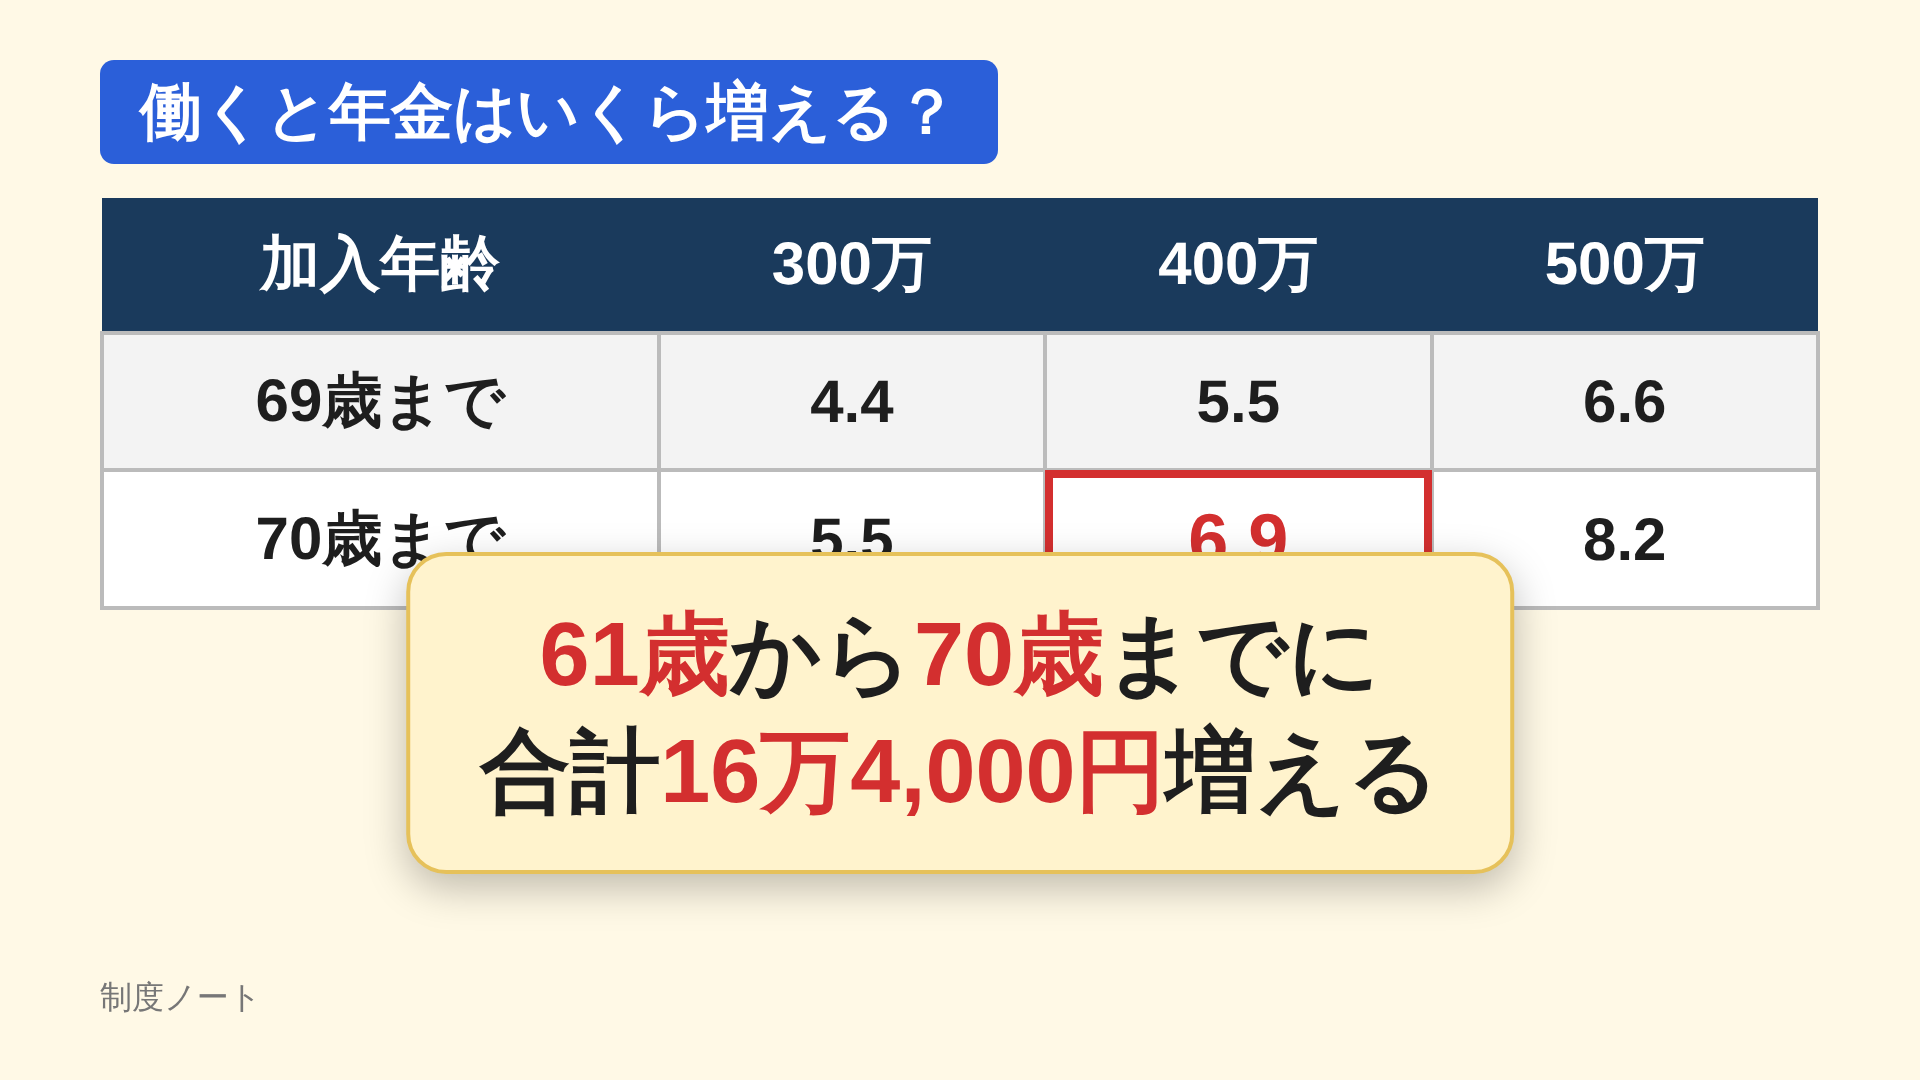
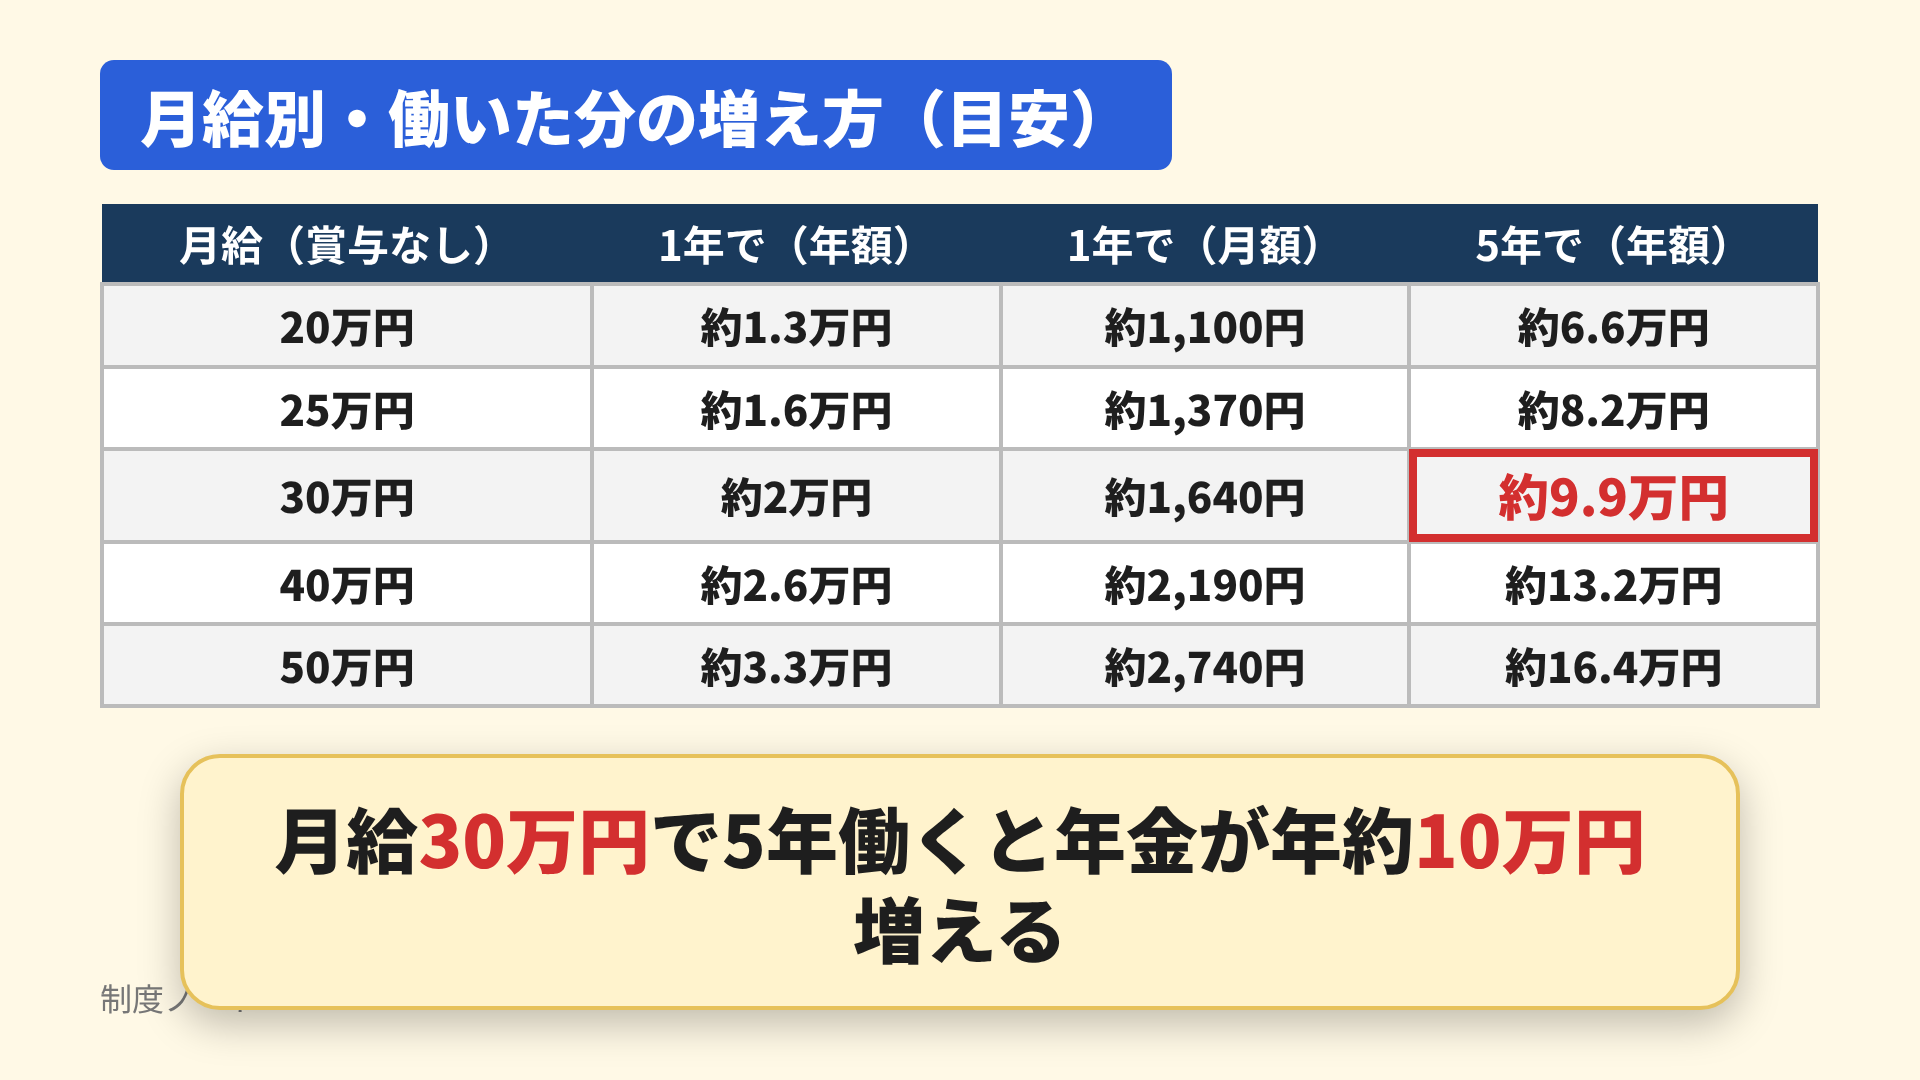
Slides: adaptive table font by density, bottom-anchored wrapping callout, dedicated 1280x720 thumbnail template with auto-shrink; prompt limits for tables/thumbnail
Claude-Session: https://claude.ai/code/session_01CZd61jbeb2KL1M1gyQhmMR

diff --git a/templates/thumb.html b/templates/thumb.html
@@ -1,0 +1,27 @@
+<!doctype html>
+<html lang="ja"><head><meta charset="utf-8">
+<style>
+  :root{--red:#d32f2f;--yel:#ffd54f;--blue:#2b5fd9}
+  *{box-sizing:border-box;margin:0}
+  body{width:1280px;height:720px;overflow:hidden;font-family:"Noto Sans CJK JP","Noto Sans JP",sans-serif;background:linear-gradient(135deg,#ffe6ea,#fff6d6)}
+  .wrap{width:100%;height:100%;padding:24px;display:flex;gap:18px}
+  .ribbon{width:150px;background:var(--red);color:#fff;border-radius:16px;display:flex;align-items:center;justify-content:center;font-size:92px;font-weight:900;writing-mode:vertical-rl;text-orientation:upright;letter-spacing:4px;white-space:nowrap;box-shadow:0 8px 0 #8e1d1d}
+  .main{flex:1;display:flex;flex-direction:column;border:10px solid #222;border-radius:22px;overflow:hidden;background:#fff}
+  .t{background:#111;color:#fff;font-size:82px;font-weight:900;text-align:center;padding:4px 10px;white-space:nowrap}
+  .t em{font-style:normal;color:var(--yel)}
+  .cmp{flex:1;display:flex}
+  .cmp>div{flex:1;display:flex;flex-direction:column;justify-content:flex-end;background:#eef1f5}
+  .cmp .note{flex:1;display:flex;align-items:center;justify-content:center;font-size:58px;font-weight:800;color:#333;text-align:center;padding:10px 16px;line-height:1.15}
+  .cmp .lab{font-size:70px;font-weight:900;color:#fff;text-align:center;padding:2px 0;white-space:nowrap}
+  .cmp .ver{font-size:96px;font-weight:900;background:#fff;text-align:center;padding:0 0 6px;white-space:nowrap;line-height:1.1}
+  .l .lab{background:var(--blue)} .l .ver{color:var(--blue)} .l{border-right:6px solid #222}
+  .r .lab{background:var(--red)}  .r .ver{color:var(--red)}
+</style></head>
+<body><div class="wrap">
+  <div class="ribbon">{{RIBBON}}</div>
+  <div class="main"><div class="t">{{TITLE}}</div>
+    <div class="cmp">
+      <div class="l"><div class="note">{{LNOTE}}</div><div class="lab">{{LLAB}}</div><div class="ver">{{LVER}}</div></div>
+      <div class="r"><div class="note">{{RNOTE}}</div><div class="lab">{{RLAB}}</div><div class="ver">{{RVER}}</div></div>
+    </div></div>
+</div></body></html>

diff --git a/templates/slide.html b/templates/slide.html
@@ -12,12 +12,15 @@
   .sub{font-size:60px;font-weight:700;text-align:center;color:var(--navy)}
   ul{list-style:none;font-size:72px;font-weight:800;display:flex;flex-direction:column;gap:36px;line-height:1.3}
   li::before{content:"✔";color:var(--red);margin-right:24px}
-  table{border-collapse:collapse;width:100%;font-size:60px;font-weight:800}
-  th{background:var(--navy);color:#fff;padding:26px}
-  td{background:#fff;border:4px solid #bbb;padding:26px;text-align:center}
+  table{border-collapse:collapse;width:100%;font-size:60px;font-weight:800;line-height:1.2}
+  table.md{font-size:50px} table.sm{font-size:42px} table.xs{font-size:36px}
+  th{background:var(--navy);color:#fff;padding:26px 16px}
+  td{background:#fff;border:4px solid #bbb;padding:26px 16px;text-align:center}
+  table.md th,table.md td{padding:18px 12px} table.sm th,table.sm td{padding:14px 10px} table.xs th,table.xs td{padding:10px 8px}
   tr:nth-child(even) td{background:#f3f3f3}
-  td.hl{background:#fff;outline:8px solid var(--red);outline-offset:-8px;font-size:72px;color:var(--red)}
-  .callout{position:absolute;left:50%;top:78%;transform:translate(-50%,-50%);word-break:keep-all;background:#fff3cd;border:4px solid #e6c15a;border-radius:40px;padding:40px 70px;font-size:90px;font-weight:900;box-shadow:0 14px 40px rgba(0,0,0,.25);text-align:center;line-height:1.3;max-width:1500px}
+  td.hl{background:#fff;outline:8px solid var(--red);outline-offset:-8px;font-size:1.2em;color:var(--red)}
+  .callout{position:absolute;left:50%;bottom:70px;transform:translateX(-50%);width:1560px;overflow-wrap:anywhere;background:#fff3cd;border:4px solid #e6c15a;border-radius:40px;padding:34px 60px;font-size:88px;font-weight:900;box-shadow:0 14px 40px rgba(0,0,0,.25);text-align:center;line-height:1.25}
+  .callout.md{font-size:72px} .callout.sm{font-size:60px}
   .callout b{color:var(--red)}
   .compare{display:flex;flex:1;border:10px solid #333;border-radius:20px;overflow:hidden}
   .compare>div{flex:1;display:flex;flex-direction:column;align-items:center;justify-content:flex-end;padding:30px;background:#eef1f5}

diff --git a/scripts/06_render.py b/scripts/06_render.py
@@ -56,14 +56,23 @@ def slide_html(sl, section):
     if k in ("title", "number"):
         body = f"<div class='big'>{esc(sl.get('big'))}</div><div class='sub'>{esc(sl.get('sub'))}</div>"
     elif k == "table":
-        th = "".join(f"<th>{esc(h)}</th>" for h in sl.get("header", [])); hl = sl.get("highlight") or [-1, -1]
+        import re
+        header, rows = sl.get("header", []), sl.get("rows", []); hl = sl.get("highlight") or [-1, -1]
+        ncols = max([len(header)] + [len(x) for x in rows] or [1])
+        maxcell = max([len(str(v)) for x in rows + [header] for v in x] or [1])
+        has_co = bool(sl.get("callout"))
+        # 행 수·열 수·셀 최대 글자수·콜아웃 유무로 표 폰트 단계 결정 (화면 밖으로 안 나가게)
+        load = len(rows) + (1 if has_co else 0) + (ncols - 3) * 0.5 + max(0, maxcell - 8) * 0.4
+        cls = "" if load <= 4 else "md" if load <= 5.5 else "sm" if load <= 7 else "xs"
+        th = "".join(f"<th>{esc(h)}</th>" for h in header)
         tr = "".join("<tr>" + "".join(f"<td class='{'hl' if [r, c] == list(hl) else ''}'>{esc(v)}</td>" for c, v in enumerate(row)) + "</tr>"
-                     for r, row in enumerate(sl.get("rows", [])))
-        body = f"{hdr}<table><tr>{th}</tr>{tr}</table>"
-        if sl.get("callout"):
-            import re
-            co = esc(sl["callout"]).replace("&lt;br&gt;", "<br>"); co = re.sub(r"([\d,]+万?[\d,]*円|[\d,]+歳|[\d,]+％)", r"<b>\1</b>", co)
-            body += f"<div class='callout'>{co}</div>"
+                     for r, row in enumerate(rows))
+        body = f"{hdr}<table class='{cls}'><tr>{th}</tr>{tr}</table>"
+        if has_co:
+            raw = sl["callout"]; n = len(re.sub(r"<br>|\s", "", raw))
+            ccls = "" if n <= 20 else "md" if n <= 30 else "sm"
+            co = esc(raw).replace("&lt;br&gt;", "<br>"); co = re.sub(r"([\d,.]+万?[\d,]*円|[\d,]+歳|[\d,]+％)", r"<b>\1</b>", co)
+            body += f"<div class='callout {ccls}'>{co}</div>"
     elif k == "compare":
         l, r = sl.get("left", {}), sl.get("right", {})
         body = (f"{hdr}<div class='compare'><div class='l'><div class='note'>{esc(l.get('note'))}</div><div class='lab'>{esc(l.get('label'))}</div><div class='ver'>{esc(l.get('verdict'))}</div></div>"
@@ -80,13 +89,17 @@ def slide_html(sl, section):
         body += chara(c["id"], c.get("mood", "neutral")).replace("<img", "<img class='character'")
     return TPL.replace("{{BODY}}", body).replace("{{CHANNEL}}", CHANNEL).replace("{{SECTION}}", esc(section))
 
+THUMB_TPL = (ROOT / "templates" / "thumb.html").read_text(encoding="utf-8")
 def thumb_html(th):
     l, r = th.get("left", {}), th.get("right", {})
-    body = (f"<div class='thumb'><div class='ribbon'>{esc(th.get('ribbon','知らなきゃ損！'))}</div><div class='main'>"
-            f"<div class='t'>{esc(th.get('title'))}</div><div class='compare'>"
-            f"<div class='l'><div class='note'></div><div class='lab'>{esc(l.get('label'))}</div><div class='ver'>{esc(l.get('verdict'))}</div></div>"
-            f"<div class='r'><div class='note'></div><div class='lab'>{esc(r.get('label'))}</div><div class='ver'>{esc(r.get('verdict'))}</div></div></div></div></div>")
-    return TPL.replace("{{BODY}}", body).replace("{{CHANNEL}}", "").replace("{{SECTION}}", "").replace(".frame{", ".frame{padding:0;")
+    def ver(v):   # verdict 5文字超は自動縮小
+        v = str(v or ""); return f"<span style='font-size:{96 if len(v) <= 4 else 76 if len(v) <= 6 else 60}px'>{esc(v)}</span>"
+    def lab(v):
+        v = str(v or ""); return f"<span style='font-size:{70 if len(v) <= 5 else 56 if len(v) <= 7 else 46}px'>{esc(v)}</span>"
+    t = str(th.get("title") or ""); tsize = 82 if len(t) <= 7 else 66 if len(t) <= 9 else 54
+    return (THUMB_TPL.replace("{{RIBBON}}", esc(th.get("ribbon", "知らなきゃ損！"))).replace("{{TITLE}}", f"<span style='font-size:{tsize}px'>{esc(t)}</span>")
+            .replace("{{LNOTE}}", esc(l.get("note", ""))).replace("{{LLAB}}", lab(l.get("label"))).replace("{{LVER}}", ver(l.get("verdict")))
+            .replace("{{RNOTE}}", esc(r.get("note", ""))).replace("{{RLAB}}", lab(r.get("label"))).replace("{{RVER}}", ver(r.get("verdict"))))
 
 def srt_time(t):
     h, r = divmod(t, 3600); m, s = divmod(r, 60)

diff --git a/templates/script_prompt.md b/templates/script_prompt.md
@@ -29,7 +29,8 @@
   - "title":    {"big":"年6万5千円","sub":"申請しないと0円"}
   - "bullets":  {"title":"...","items":["..",".."]}  （「〇選」は禁止、3〜4項目）
   - "table":    {"title":"...","header":[..],"rows":[[..]..],"highlight":[row,col] または null,
-                 "callout":"61歳から70歳までに合計16万4,000円増える" または null}  ← 表の上に黄色の吹き出し、数字は赤
+                 "callout":"61歳から70歳までに合計16万4,000円増える" または null}  ← 表の下に黄色の吹き出し、数字は赤
+                 制約: 行は4行以内・列は4列以内・1セル8文字以内（長い説明は表に入れず bullets にする）。callout は25文字以内、改行したい位置に <br>
   - "compare":  {"title":"年金受給の年齢","left":{"label":"65歳","verdict":"超大損","note":"一言"},
                  "right":{"label":"〇歳","verdict":"最強","note":"一言"}}  ← 左=青、右=赤の2分割
   - "timeline": {"title":"...","rows":[{"label":"60〜64歳"},{"label":"65歳以上"}],
